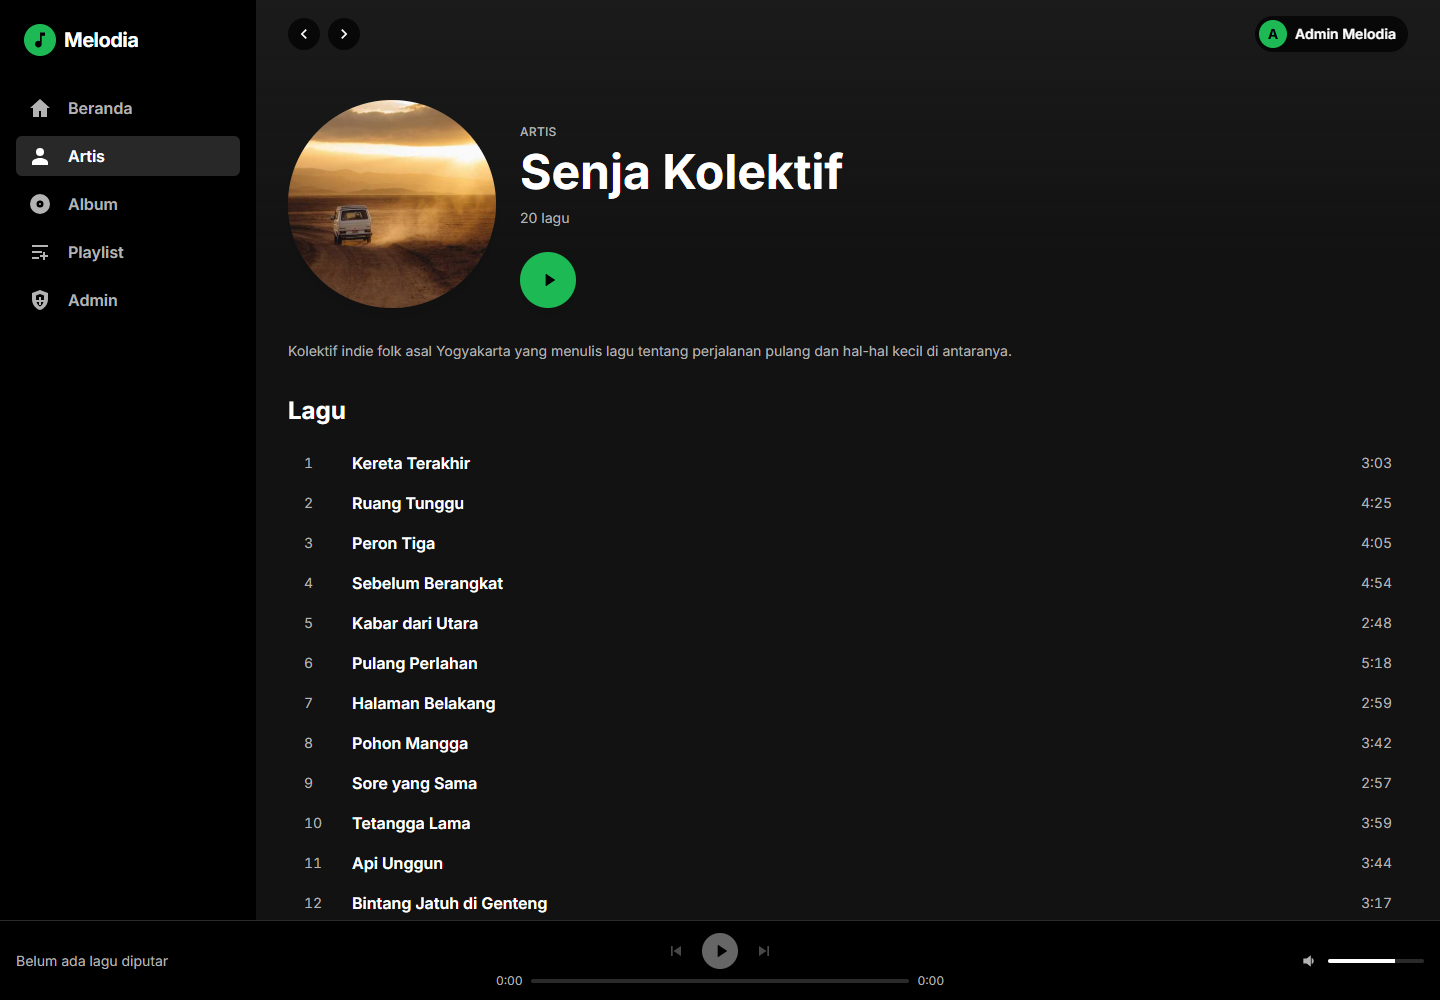
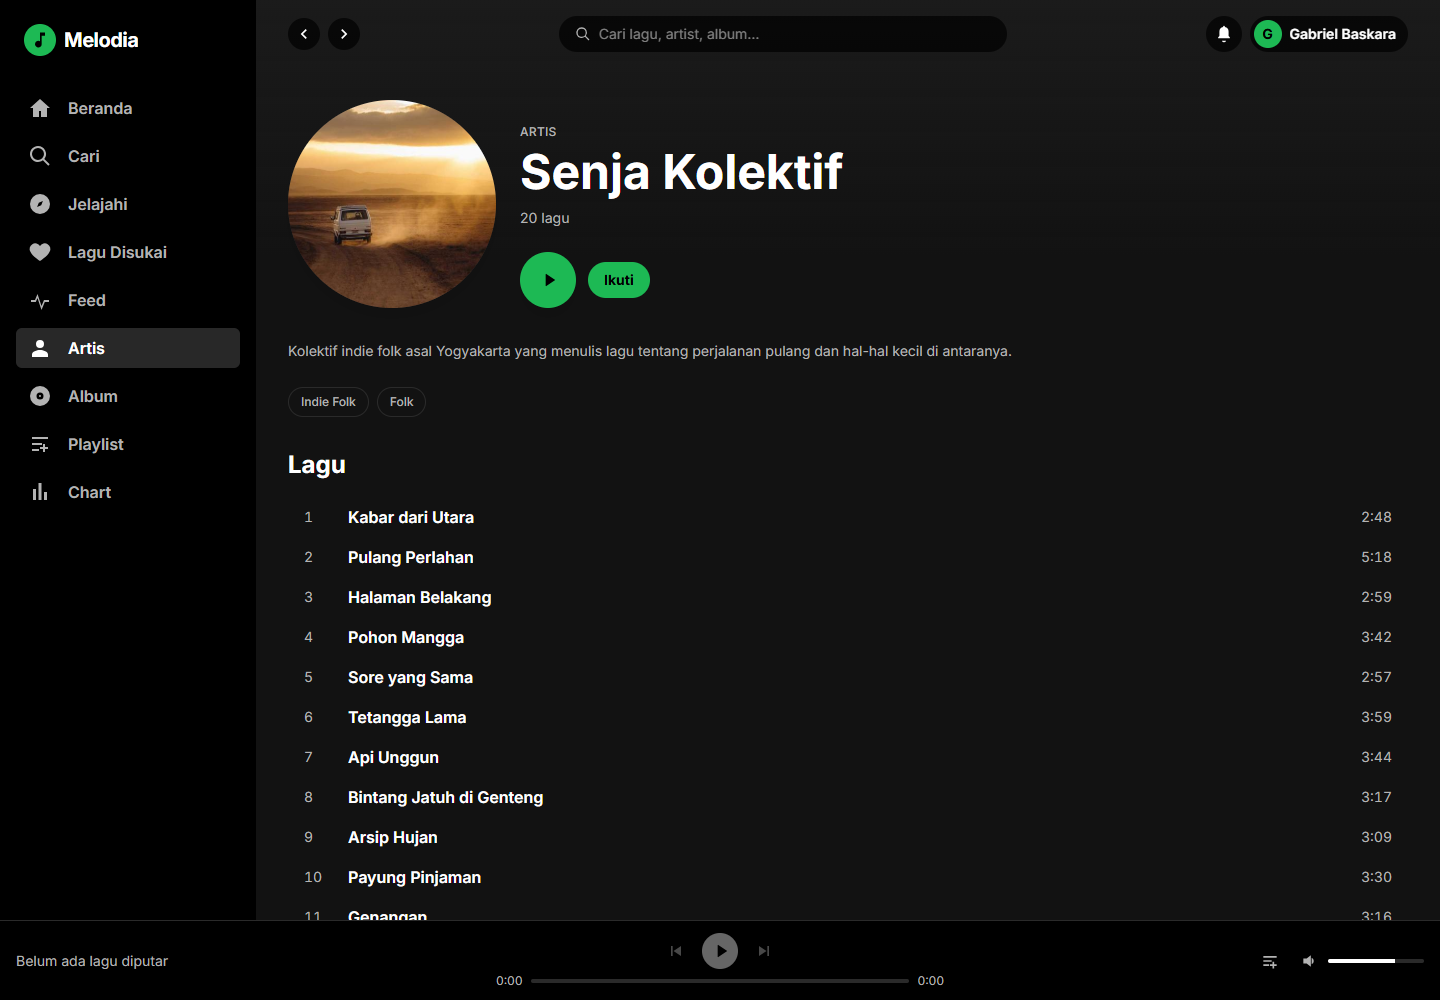
docs: document discovery, feed and notifications

diff --git a/README.md b/README.md
@@ -2,8 +2,9 @@
 
 Aplikasi web streaming musik yang mengonsumsi REST + WebSocket API dari
 backend Go. Proyek portofolio dengan fokus pada pengalaman pemakaian ala
-Spotify: katalog, pemutar lagu, playlist, dan dashboard admin — dirakit tanpa
-UI kit, seluruh tampilan ditulis dengan Tailwind CSS.
+Spotify: katalog, pemutar lagu, playlist, discovery (genre, rekomendasi,
+chart), interaksi sosial, dan dashboard admin. Semuanya dirakit tanpa UI kit,
+seluruh tampilan ditulis dengan Tailwind CSS.
 
 Nama yang tampil di UI adalah **Melodia** — identitas visual sendiri, sengaja
 bukan memakai logo/nama pihak lain.
@@ -142,6 +143,50 @@ bukan memakai logo/nama pihak lain.
 
 ![Profil publik](docs/screenshots/profile.png)
 
+### Jelajahi genre
+
+- Halaman `/browse`: daftar genre sebagai pintu masuk katalog; klik genre
+  membuka `/genres/:id` berisi artist yang terdaftar di genre itu.
+- Detail artist menampilkan **chip genre** yang bisa diklik menuju genre
+  bersangkutan; datanya hanya ikut di response detail (list artist tidak
+  memuat genre, jadi tidak ada query berlebih).
+- Genre dikurasi admin lewat API backend (`/api/genres`); UI pengelolaannya
+  belum ada dan dicatat di bagian Belum Dikerjakan.
+
+<p align="center">
+  <img src="docs/screenshots/browse.png" width="49%" alt="Jelajahi genre" />
+  <img src="docs/screenshots/genre-detail.png" width="49%" alt="Detail genre" />
+</p>
+
+### Rekomendasi & chart
+
+- **"Dibuat untukmu"** di Beranda (perlu login): rekomendasi dari genre
+  favorit hasil riwayat putar, dihitung heuristik SQL di backend. User tanpa
+  riwayat tetap mendapat lagu terpopuler sebagai cadangan.
+- **"Penggemar juga menyukai"** di detail artist: artist lain dengan pengikut
+  beririsan, dengan cadangan artist segenre.
+- Halaman `/charts`: lagu dan artist paling banyak diputar **7 hari terakhir**,
+  dua tab dengan angka putar nyata dari materialized view backend. Preview-nya
+  muncul di Beranda sebagai "Tangga lagu 7 hari".
+
+![Halaman chart](docs/screenshots/charts.png)
+
+### Notifikasi & feed (perlu login)
+
+- **Lonceng notifikasi** di top bar dengan badge jumlah belum dibaca; angkanya
+  datang dari response API dan naik langsung saat event WebSocket tertarget
+  `notification:new` tiba.
+- Halaman `/notifications`: daftar pengikut baru, penanda "Baru" untuk yang
+  belum dibaca, dan tombol "Tandai semua dibaca".
+- Halaman `/feed`: aktivitas user yang diikuti, yaitu lagu yang mereka putar
+  (bisa langsung diputar dari feed) dan playlist publik yang mereka buat.
+  Playlist pribadi tidak pernah muncul.
+
+<p align="center">
+  <img src="docs/screenshots/notifications.png" width="49%" alt="Notifikasi" />
+  <img src="docs/screenshots/feed.png" width="49%" alt="Feed aktivitas" />
+</p>
+
 ### Dashboard admin
 
 - Hanya muncul di navigasi dan bisa dibuka kalau role user adalah `admin`.
@@ -161,7 +206,9 @@ bukan memakai logo/nama pihak lain.
   - `song:created` → "Lagu baru ditambahkan" (batched saat admin menambah lagu),
   - `song:playing` → "Sedang diputar user lain" (lagu yang kita putar juga
     disiarkan — **sekali per lagu**, tanpa penjaga itu satu lagu bisa memicu
-    toast duplikat di semua client).
+    toast duplikat di semua client),
+  - `notification:new` → "Pengikut baru" (dikirim **tertarget** hanya ke user
+    penerima, sekaligus menaikkan badge lonceng tanpa refetch).
 - **Reconnect bertahap** 1s → 2s → 5s → 10s → 30s, dan token dikirim lewat
   query string karena browser tidak bisa memasang header `Authorization` saat
   handshake WebSocket.
@@ -172,8 +219,10 @@ bukan memakai logo/nama pihak lain.
   di input, slider seek/volume memakai `<input type="range">` bawaan (bisa
   digeser keyboard, terbaca screen reader), focus ring di semua elemen
   interaktif.
-- Responsif: sidebar → hanya ikon di tablet → bottom-nav di mobile; kolom
-  progress/volume disembunyikan di layar kecil.
+- Responsif: sidebar → hanya ikon di tablet → bottom-nav di mobile yang
+  dibatasi enam tujuan utama (Jelajahi dan Feed ikut, Artis/Album/Chart tetap
+  terjangkau lewat tautan section Beranda); kolom progress/volume disembunyikan
+  di layar kecil.
 - Menghormati `prefers-reduced-motion`.
 
 ## Arsitektur
@@ -189,6 +238,7 @@ src/
 │   ├── AlbumCard.tsx       (menerima data, memanggil aksi store)
 │   ├── SongCard.tsx
 │   ├── SongRow.tsx
+│   ├── NotificationBell.tsx lonceng + badge notifikasi
 │   ├── DetailHero.tsx      kepala halaman detail artist/album
 │   ├── SectionGrid.tsx     grid section + tautan "Lihat semua"
 │   ├── StateMessage.tsx    Loading / Empty / Error state yang konsisten
@@ -197,11 +247,13 @@ src/
 │   ├── ProtectedRoute.tsx  guard: butuh login
 │   └── GuestOnlyRoute.tsx  guard: hanya tamu (login/register/forgot)
 ├── pages/                  Home, Artists, Albums, ArtistDetail, AlbumDetail,
+│                           Browse, GenreDetail, Charts, Feed, Notifications,
 │                           Playlists, Admin, auth pages, NotFound
 ├── hooks/
 │   ├── useAsync.ts         fetch + 3 keadaan + cancel guard + reload()
-│   └── useRealtime.ts      jembatan WebSocket → store (toast, player)
-├── store/                  Zustand: authStore, playerStore, toastStore
+│   └── useRealtime.ts      jembatan WebSocket → store (toast, badge, player)
+├── store/                  Zustand: authStore, playerStore, toastStore,
+│                           notificationStore
 ├── lib/
 │   ├── api.ts              axios instance + interceptor + endpoint per domain
 │   ├── websocket.ts        RealtimeClient (reconnect, subscribe, send)
@@ -223,12 +275,16 @@ Aturan yang dipegang:
 
 | Path | Halaman | Akses |
 |---|---|---|
-| `/` | Beranda (sapaan + katalog) | 🌐 publik |
+| `/` | Beranda (sapaan + rekomendasi + chart + katalog) | 🌐 publik |
 | `/search?q=` | Pencarian lintas tipe (lagu/artis/album/playlist) | 🌐 publik |
+| `/browse`, `/genres/:id` | Jelajahi genre & artist per genre | 🌐 publik |
+| `/charts` | Lagu & artist terpopuler 7 hari terakhir | 🌐 publik |
 | `/artists`, `/albums` | Daftar artist / album | 🌐 publik |
 | `/artists/:id`, `/albums/:id` | Detail artist / album | 🌐 publik |
 | `/users/:id` | Profil publik + tombol Ikuti | 🌐 publik |
 | `/library` | Lagu Disukai, album tersimpan, artist diikuti | 🔒 login |
+| `/feed` | Aktivitas user yang diikuti | 🔒 login |
+| `/notifications` | Notifikasi + tandai semua dibaca | 🔒 login |
 | `/queue` | Antrean berikutnya (tersimpan di server) | 🔒 login |
 | `/playlists` | Playlist milik user + playlist publik | 🔒 login |
 | `/admin` | Kelola katalog | 👑 admin |
@@ -356,6 +412,8 @@ npm run build         # build produksi
 
 ## Belum Dikerjakan
 
+- Kelola genre di dashboard admin (backend sudah siap: `/api/genres` dan
+  `PUT /api/artists/:id/genres`; frontend belum punya formnya)
 - Docker full-stack (Dockerfile + nginx `try_files` untuk SPA) — rencana ada
   di `DOCKER.md`
 - Test otomatis frontend (belum ada test runner; type-check + lint masih
